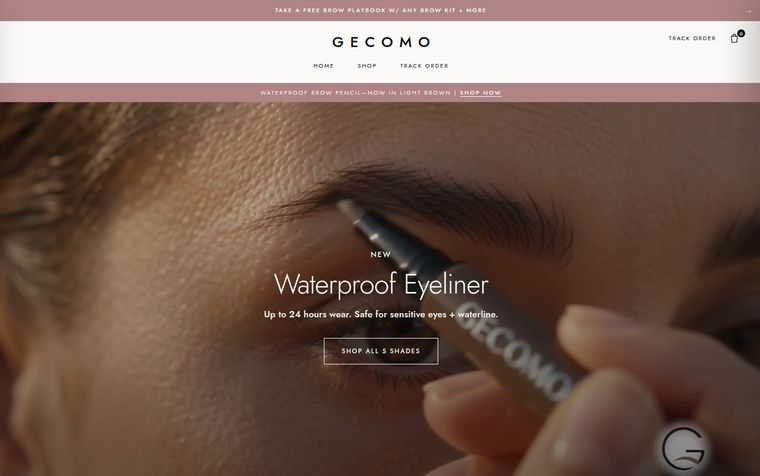
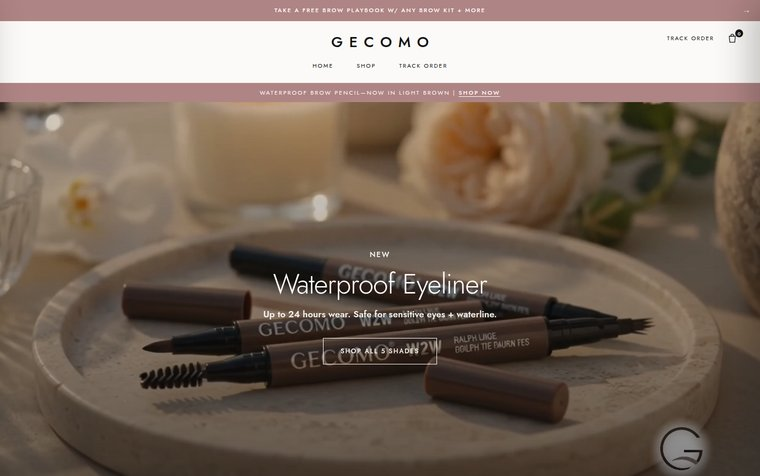
Portfolio: replace the four pages.dev demo entries with the real client sites
- index.html FALLBACK_SITES + website-services.html SITES: Kovah Active,
  Mawazo by Dagiova, LazusAI and GECOMO replace L&M Woodworking,
  Sunburst Truck Lines, JKW Contracting and HeyCocoa (all *.pages.dev)
- website-services: drop the duplicate ShopGeComo row, keep one GECOMO card
  (dm shopgecomo.com); array is now six real client sites
- add real 760x476 captures ws-kovahactive / ws-mawazo / ws-lazusai,
  refresh ws-gecomo with the same crop

diff --git a/website-services.html b/website-services.html
@@ -216,21 +216,20 @@
 (function () {
   'use strict';
 
-  /* ───────────── the seven client sites (only these) ─────────────
+  /* ───────────── the six client sites (only these) ─────────────
      `frame:1` = the host sends no X-Frame-Options and no CSP frame-ancestors,
      verified from the live response headers (2026-09-21), so it embeds inline.
      Anything else falls back to the thumbnail + "Open site ↗" card. */
   var SITES = [
     { name:'Voltecharged',         tag:'DTC · Portable Blender',           dm:'voltecharged.com',                   url:'https://voltecharged.com/',                            img:'assets/ws-voltecharged.jpg', frame:1 },
-    { name:'ShopGeComo',           tag:'Beauty E-Commerce',                dm:'shopgecomo.com',                     url:'https://shopgecomo.com/',                              img:'assets/ws-gecomo.jpg',       frame:1 },
     { name:'MG Woodshop & More',   tag:'Custom Woodworking',               dm:'mgwoodshopandmore.com',              url:'https://mgwoodshopandmore.com/',                       img:'assets/ws-mgwoodshop.jpg',   frame:1 },
-    { name:'L&M Woodworking',      tag:'Carpentry & Millwork',             dm:'lmwoodworking.pages.dev',            url:'https://lmwoodworking.pages.dev/',                     img:'assets/ws-lmwoodworking.jpg',frame:1 },
-    { name:'Sunburst Truck Lines', tag:'Intermodal Freight',               dm:'sunburst-truck-lines.pages.dev',     url:'https://sunburst-truck-lines.pages.dev/',              img:'assets/ws-sunburst.jpg',     frame:1 },
-    { name:'JKW Contracting',      tag:'Construction & Landscaping',       dm:'jkwllc.pages.dev',                   url:'https://jkwllc.pages.dev/',                            img:'assets/ws-jkwllc.jpg',       frame:1 },
-    { name:'HeyCocoa',              tag:'Specialty Coffee',                 dm:'heycocoa.pages.dev',                 url:'https://heycocoa.pages.dev/',                          img:'assets/ws-heycocoa.jpg',     frame:1 }
+    { name:'Kovah Active',         tag:"Women's Activewear",                dm:'kovahactive.com',                    url:'https://kovahactive.com/',                             img:'assets/ws-kovahactive.jpg',  frame:1 },
+    { name:'Mawazo by Dagiova',    tag:'Linen & Tailoring',                 dm:'mawazobydagiova.com',                url:'https://mawazobydagiova.com/',                         img:'assets/ws-mawazo.jpg',       frame:1 },
+    { name:'LazusAI',              tag:'AI Receptionist',                   dm:'lazusai.com',                        url:'https://lazusai.com/',                                 img:'assets/ws-lazusai.jpg',      frame:1 },
+    { name:'GECOMO',               tag:'Beauty & Cosmetics',                dm:'shopgecomo.com',                     url:'https://shopgecomo.com/',                              img:'assets/ws-gecomo.jpg',       frame:1 }
   ];
 
-  /* density: how many times the loop of seven is laid around the helix */
+  /* density: how many times the loop of six is laid around the helix */
   var q = /[?&]rep=(\d+)/.exec(location.search);
   var REPEAT = q ? Math.max(1, Math.min(8, parseInt(q[1], 10))) : 3;
   var qT = /[?&]turns=([\d.]+)/.exec(location.search);

diff --git a/index.html b/index.html
@@ -1715,10 +1715,10 @@ async function deleteSite(id) {
 const FALLBACK_SITES = [
   { name:'Voltecharged',        industry:'DTC · Portable Blender',  description:'A direct-to-consumer product launch built to convert.',            url:'https://voltecharged.com/',                  img:'assets/ws-voltecharged.jpg' },
   { name:'MG Woodshop & More',  industry:'Custom Woodworking',        description:'Hand-built furniture and millwork, sold online.',                  url:'https://mgwoodshopandmore.com/',             img:'assets/ws-mgwoodshop.jpg' },
-  { name:'L&M Woodworking',     industry:'Carpentry & Millwork',      description:'A carpentry shop whose portfolio books the work.',                 url:'https://lmwoodworking.pages.dev/',           img:'assets/ws-lmwoodworking.jpg' },
-  { name:'Sunburst Truck Lines',industry:'Intermodal Freight',        description:'Freight capacity and lanes, presented clearly.',                   url:'https://sunburst-truck-lines.pages.dev/',    img:'assets/ws-sunburst.jpg' },
-  { name:'JKW Contracting',     industry:'Construction & Landscaping', description:'Contracting services with instant quote capture.',                url:'https://jkwllc.pages.dev/',                  img:'assets/ws-jkwllc.jpg' },
-  { name:'HeyCocoa',            industry:'Specialty Coffee',          description:'A specialty coffee brand with a working storefront.',             url:'https://heycocoa.pages.dev/',                img:'assets/ws-heycocoa.jpg' }
+  { name:'Kovah Active',        industry:"Women's Activewear",        description:"A women's gymwear brand with a working storefront.",              url:'https://kovahactive.com/',                   img:'assets/ws-kovahactive.jpg' },
+  { name:'Mawazo by Dagiova',   industry:'Linen & Tailoring',         description:'Thoughtful linen, tailored by Dagiova.',                          url:'https://mawazobydagiova.com/',               img:'assets/ws-mawazo.jpg' },
+  { name:'LazusAI',             industry:'AI Receptionist',           description:'The AI receptionist that reads, replies and books for you.',      url:'https://lazusai.com/',                       img:'assets/ws-lazusai.jpg' },
+  { name:'GECOMO',              industry:'Beauty & Cosmetics',        description:'A waterproof eyeliner brand with a live storefront.',             url:'https://shopgecomo.com/',                    img:'assets/ws-gecomo.jpg' }
 ];
 
 function renderProjectCards(list) {
